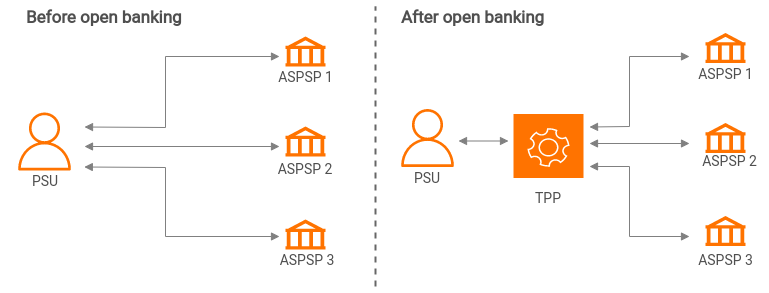
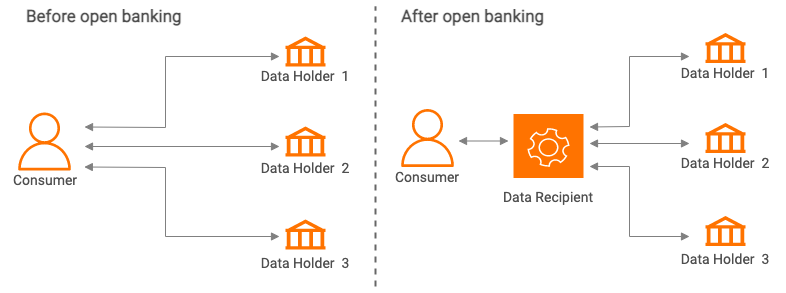
Update open-banking intro

diff --git a/en/docs/get-started/open-banking.md b/en/docs/get-started/open-banking.md
@@ -3,7 +3,7 @@
 Open banking is a concept that enables banks, customers, and third parties to use and benefit more from the vast silos 
 of data held by banks on their customers. Fundamentally, open banking allows bank customers to share their financial 
 data with third parties with their consent. In technical terms, this is done via secure APIs that allow the customers 
-or authorised Third Party Provider (TPP) applications to access data held by the bank. It is envisioned that upon wide adoption, an 
+or authorized Third Party Provider applications to access data held by the bank. It is envisioned that upon wide adoption, an 
 ecosystem of APIs would be created with various third-party applications, services and intermediary platforms 
 integrating with banks to reinvent financial services using customer data. 
 
@@ -43,30 +43,32 @@ of them.
 
 ## Stakeholders in Open Banking
    
-The open banking ecosystem comprises 4 main stakeholders.
+As described in the [Consumer Data Standards](https://consumerdatastandardsaustralia.github.io/standards/#introduction), 
+the open banking ecosystem comprises the following main stakeholders:
    
-   * **Payment Services User (PSU)** - A natural or legal person making use of a payment service as a payee, payer or 
-   both. A PSU grants access to the Third Party Provider applications to retrieve account information or initiate 
-   payments on their behalf. With open banking in the picture, the owner can use a single application to manage the 
-   accounts and initiate a payment on behalf of them. The PSUs have more control over their data as they can 
-   manage and revoke the TPP applications’ access to the financial information.
+   * **Consumer** - The end-user who is benefited from CDR, the consumer can request the Data Holder to provide data.
    
-   * **Third Party Provider (TPP)** - TPPs are organisations or natural persons that use APIs developed 
-   to Standards to access PSU’s accounts, in order to provide account information services and/or to initiate 
-   payments. Third Party Providers are either/both Payment Initiation Service Providers (PISPs) and/or Account 
-   Information Service Providers (AISPs).
-   
-   * **Account Servicing Payment Service Provider (ASPSP)** -  Provide and maintain a payment account for a payer. This 
-   is an entity such as a bank that provides and maintains a payment account for a PSU. With the PSU's consent, 
-   they share account and transaction data via API endpoints and let TPP applications make payments on behalf of the 
-   PSU. 
+   * **Data Recipient** - A Data Recipient (DR) is an accredited party that can request CDR data from a Data Holder with 
+   the consent of the consumer. Data Recipients use standard APIs to access consumer data to provide services. <br/> 
+   A Data Recipient needs to be accredited by the ACCC. Once accredited, an Accredited Data Recipient can request banking 
+   data from a Data Holder with the consent of the consumer.
+
+   * **Data Holder** -  The Data Holder is the organization that the CDR is applied to. This is an entity such as a bank 
+   that provides and maintains a payment account for a consumer. With the consumer's consent, the Data Holders share 
+   account and transaction data via API endpoints.
+
+   * **Treasury** -  The lead regulator for the CDR. The Treasury oversees rule-making and is responsible for the overall program.
+
+   * **ACCC** - The Australian Competition and Consumer Commission (ACCC) is a co-regulator for the CDR regime. The ACCC works 
+   with the Treasury, the Data Standards Body and the OAIC to implement the CDR. <br/> The ACCC is responsible for the accreditation 
+   of Data Recipients and maintaining a registry of accredited data holders and persons. It also guides stakeholders about
+   their rights and obligations under the CDR. For more information, see [ACCC’s roles](https://www.accc.gov.au/focus-areas/consumer-data-right-cdr-0).
    
    * **Merchant** - A vendor who accepts online payments in exchange for their products or services. A merchant can 
-   use a single TPP application to accept payments easily from multiple banks. Unless the PSU wants to 
-   make a payment from their bank account, the role of a merchant is not available in all open banking use cases.
+   use a single Data Recipient application to accept payments easily from multiple banks. 
    
  There are other stakeholders such as the government, technology providers, and consultancy service providers that 
- are involved in open banking.
+ are involved in open banking. 
 
 ## Customer Stories and Use Cases
 WSO2 Open Banking delivers comprehensive technology and strategic consultancy to help you execute 
